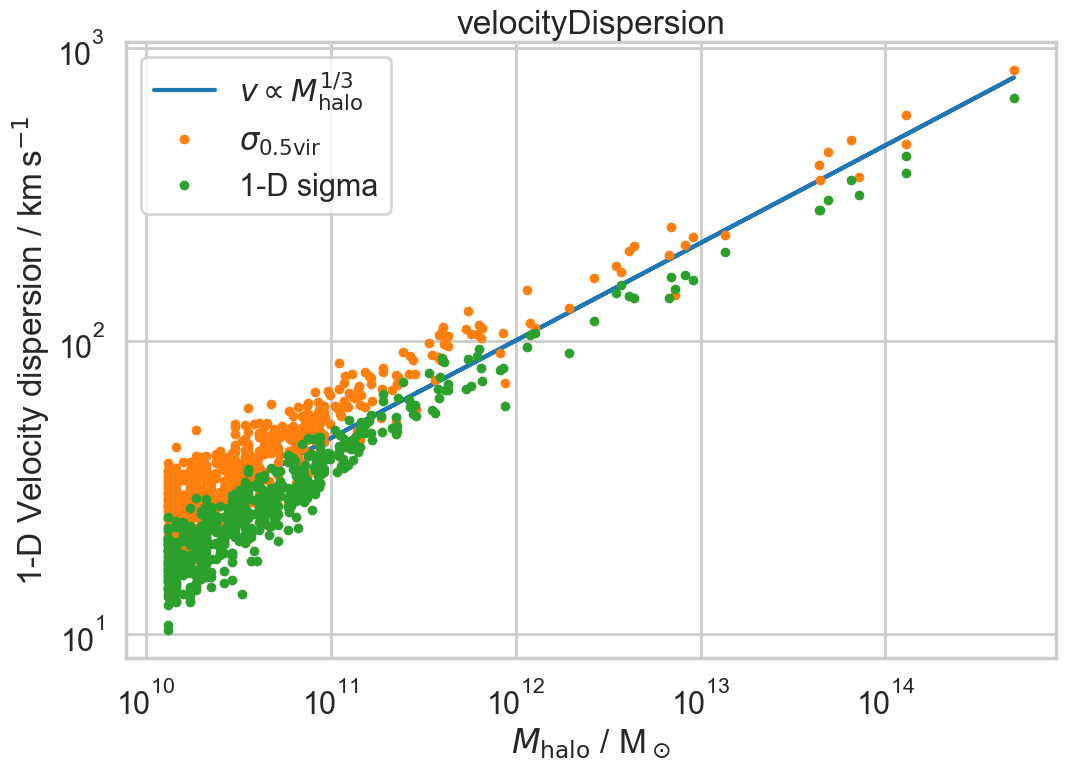
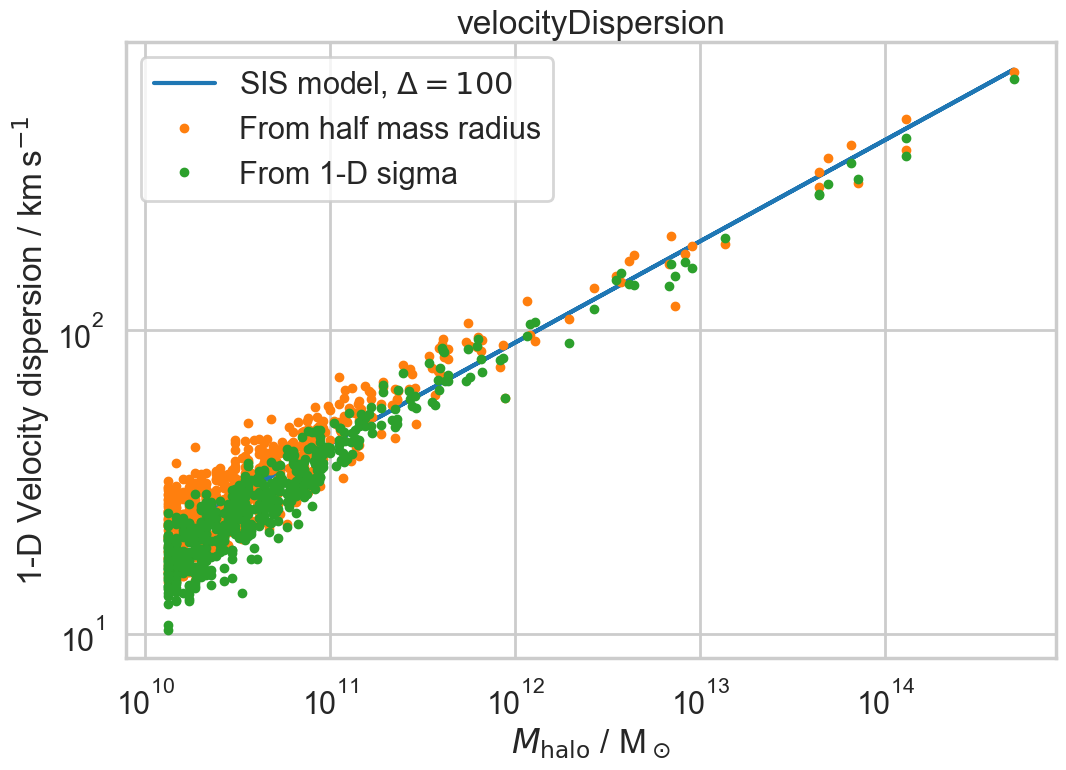
Have finalised halo virial temperature calculation and docs

diff --git a/code-python/parameters.py b/code-python/parameters.py
@@ -113,6 +113,9 @@ class C_parameters:
         self.c_rms_speed_to_temperature = (
             self.D_param['astrophysics']['mumH']['Value'] * eval(self.D_param['astrophysics']['mumH']['Units']) *
             self.units_speed_internal**2 / (3. * c.k_B * self.units_temperature_internal ) ).si.value
+        self.c_half_mass_virial_speed_to_temperature = (
+            self.D_param['astrophysics']['mumH']['Value'] * eval(self.D_param['astrophysics']['mumH']['Units']) *
+            self.units_speed_internal**2 / (2. * c.k_B * self.units_temperature_internal ) ).si.value
 
     def __str__(self):
         """ 

diff --git a/code-python/subs.py b/code-python/subs.py
@@ -91,8 +91,10 @@ class C_sub:
       self.pos = graph.sub_pos[sub_gid]
       self.vel = graph.sub_vel[sub_gid]
       rms_speed = graph.rms_speed[sub_gid]
+      half_mass_radius = graph.sub_half_mass_radius[sub_gid]
+      half_mass_virial_speed = (0.5*parameters.c_G*self.mass/half_mass_radius)**(0.5)
       # Derived properties
-      self.temperature = rms_speed**2 * parameters.c_rms_speed_to_temperature
+      self.temperature = half_mass_virial_speed**2 * parameters.c_half_mass_virial_speed_to_temperature
       # SAM properties
       #self.mass_stars = 0.
       self.mass_hot_gas = 0.

diff --git a/code-python/halos.py b/code-python/halos.py
@@ -91,7 +91,7 @@ class C_halo:
       # Derived quantities
       # Using v^2=GM/r but for half mass
       self.half_mass_virial_speed = (0.5*parameters.c_G*self.mass/self.half_mass_radius)**(0.5)
-      self.temperature = self.rms_speed**2 * parameters.c_rms_speed_to_temperature
+      self.temperature = self.half_mass_virial_speed**2 * parameters.c_half_mass_virial_speed_to_temperature
       # The following are properties of the SAM
       self.desc_main_sid = parameters.NO_DATA_INT  # Main descendant location in halos_this_snap
       self.mass_baryon = 0.

diff --git a/code-python/graphs.py b/code-python/graphs.py
@@ -142,6 +142,7 @@ class C_graph:
          self.sub_n_desc = graph['sub_ndesc'][:]
          self.sub_mass = graph['sub_nparts'][:] * part_mass
          self.sub_rms_speed = graph['sub_3D_velocity_dispersion'][:] * parameters.speed_input_to_internal
+         self.sub_half_mass_radius = graph['sub_half_mass_radius'][:] * parameters.length_input_to_internal
          self.sub_start_halo_gid = graph['subhalo_start_index'][:]      # First subhalo in each halo
          #self.sub_v_max = graph['sub_v_max']
       # Galaxies

diff --git a/docs/jb_pygal/developers/galaxy_formation_model.rst b/docs/jb_pygal/developers/galaxy_formation_model.rst
@@ -94,13 +94,13 @@ Here is a plot showing the results of evaluating :math:`\sigma` these two differ
    :width: 600
    :alt: halo 1-D velocity dispersions versus halo mass
 
-The turn-down at small masses is almost certainly due to the finite softening affecting halos with small particle number.
+The solid line shows the theoretical relation expected for the SIS model with an overdensity relative to critical of :math:`Delta=100`; given that the halos are almost certainly not SIS and the overdensity captured by the FoF is in the range 90--165 (Section 2.1.1 of MEGA paper) then this is an acceptable agreement.  The turn-down at small masses is almost certainly due to the finite softening affecting halos with small particle number.
 
-The offset between the two methods is not yet clear: it could be due to the fact that the halos are not isothermal spheres, or it could be due to a bug / misunderstanding of the input data.  The degree of offset (a factor of approximately :math:`(3/2)^{1/2}`) corresponds to a density profile of :math:`\rho\propto r^{-1}` within the half mass radius, which seems rather shallow: this could be investigated by taking NFW profiles of different concentrations and solving the Jeans equations.
-
-For now, we park this uncertainty and use the measured velocity dispersion of the halo as an indicator of its virial (ie the hot gas) temperature: :math:`k_\mathrm{B}T/\mu m_\mathrm{H}=\sigma^2`, where :math:`k_\mathrm{B}` is the Boltzmann constant and :math:`\mu m_\mathrm{H}\approx 10^{-27}` kg is the mass per particle in a fully ionised gas of cosmic metallicity.  That then gives:
+The virial temperature (i.e. the hot gas temperature) is given by the relation: :math:`k_\mathrm{B}T/\mu m_\mathrm{H}=\sigma^2`, where :math:`k_\mathrm{B}` is the Boltzmann constant and :math:`\mu m_\mathrm{H}\approx 10^{-27}` kg is the mass per particle in a fully ionised gas of cosmic metallicity.  That then gives:
 
 .. image:: figs/temp.png
    :width: 600
    :alt: virial temperature versus halo mass
+
+Any of the three relations on the above plot could be used to fix the virial temperature of the halo: further testing is required to see which is most robust to mergers.  For now, we use the half mass radius as that seems the most direct measure of the conditions in the dentre of the halo, where cooling will be most effective.
 
